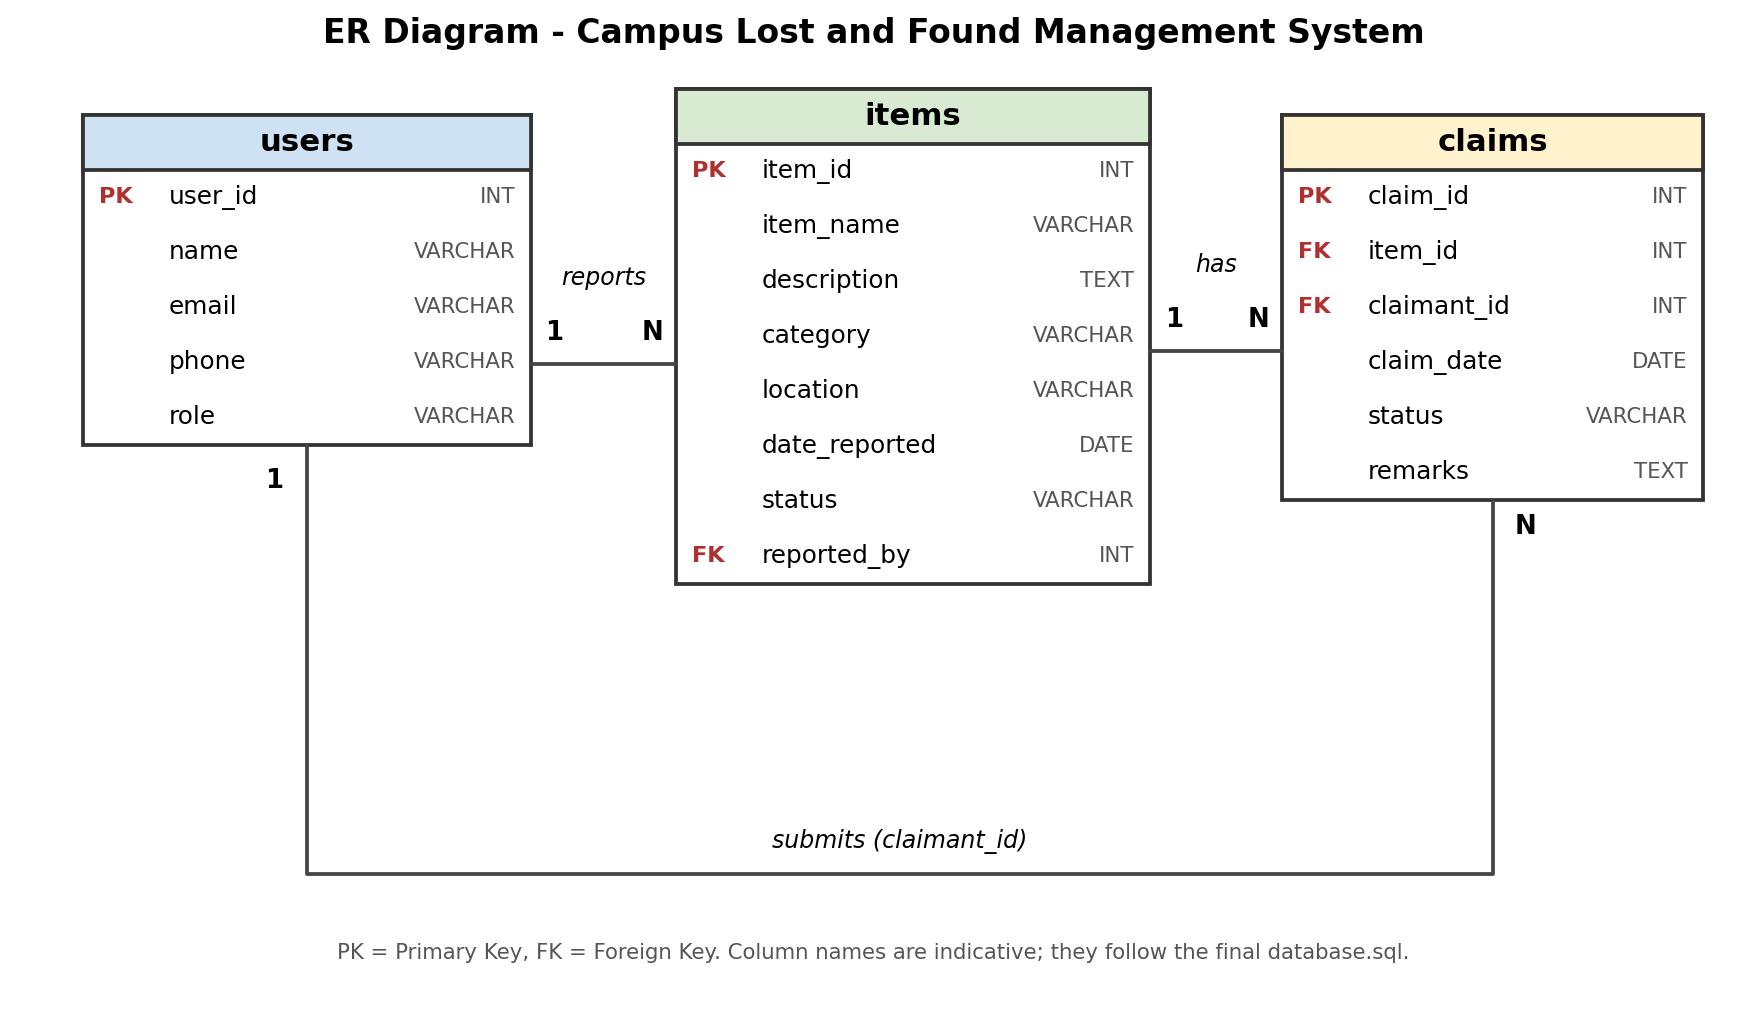
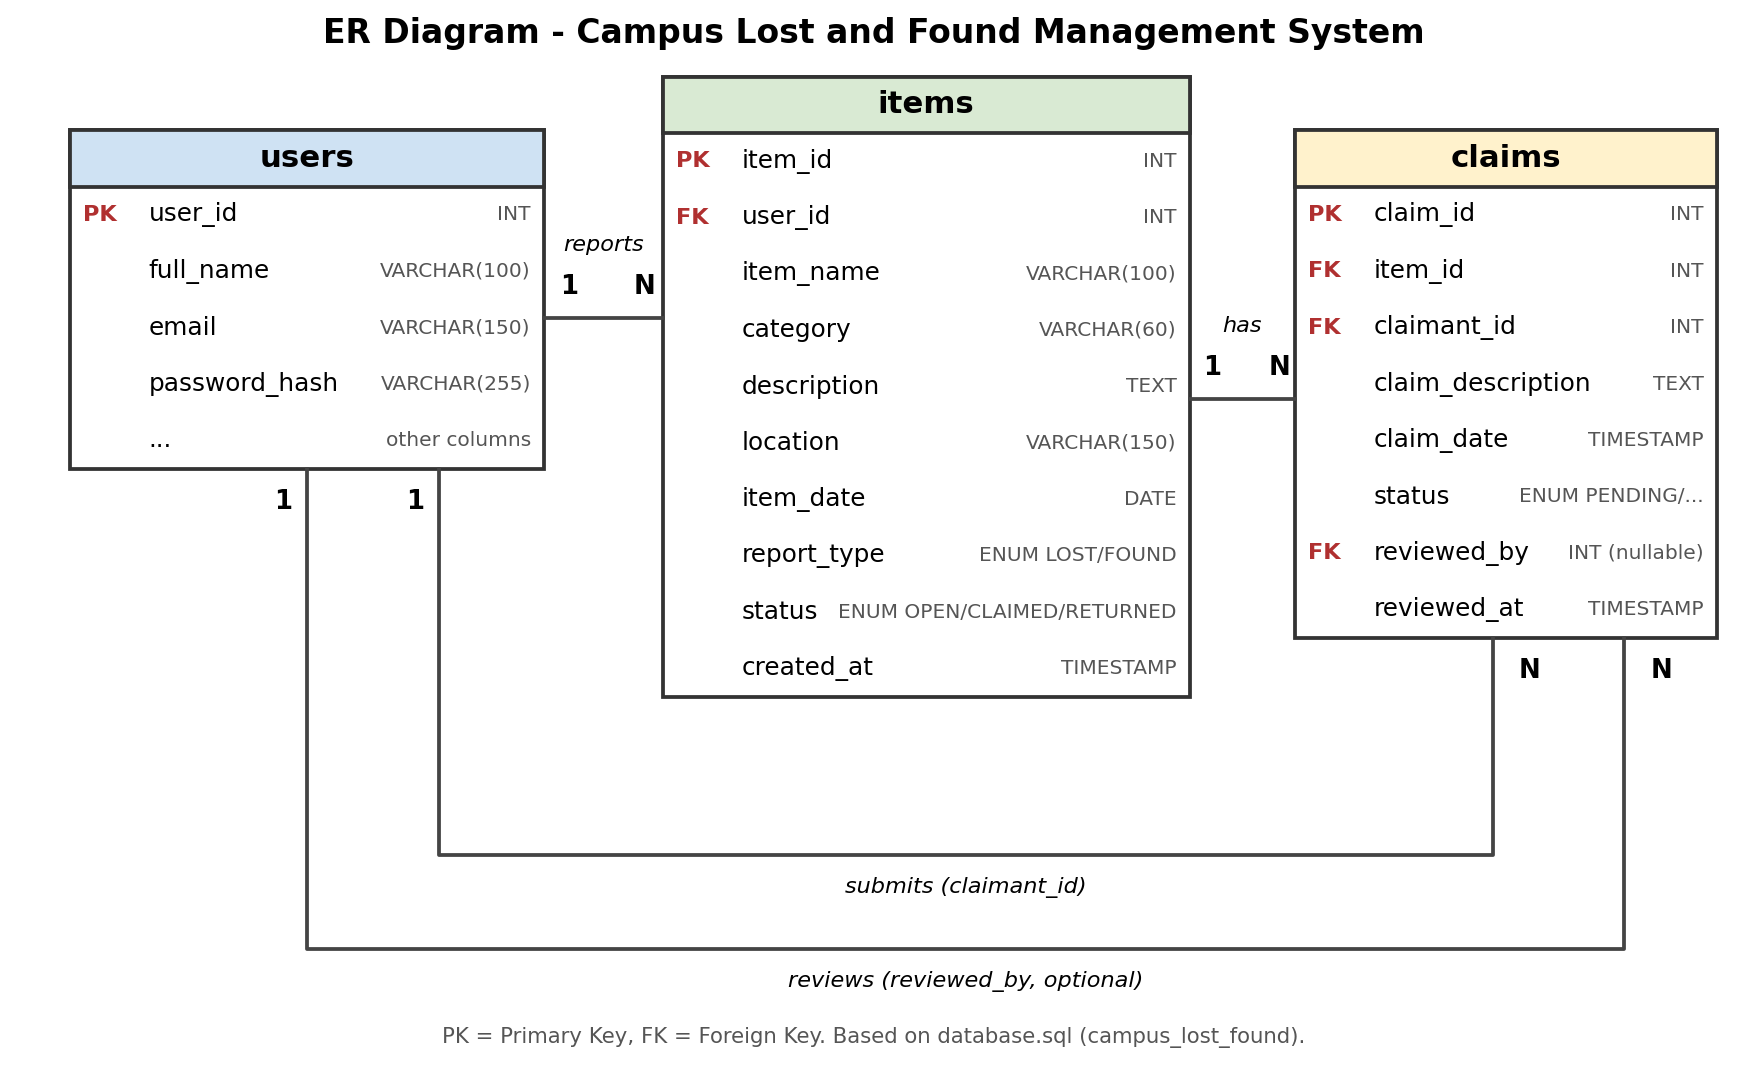
Update ER diagram to match database.sql and fix TestAddItem status

diff --git a/TestAddItem.java b/TestAddItem.java
@@ -1,11 +1,10 @@
-
 public class TestAddItem {
     public static void main(String[] args) {
         ItemDAO dao = new ItemDAO();
 
         dao.addItem(1, "Water Bottle", "Bottle",
                 "Blue water bottle", "Classroom",
-                java.time.LocalDate.now().toString(), "Lost");
+                java.time.LocalDate.now().toString(), "OPEN");
 
         dao.viewItems();
     }
